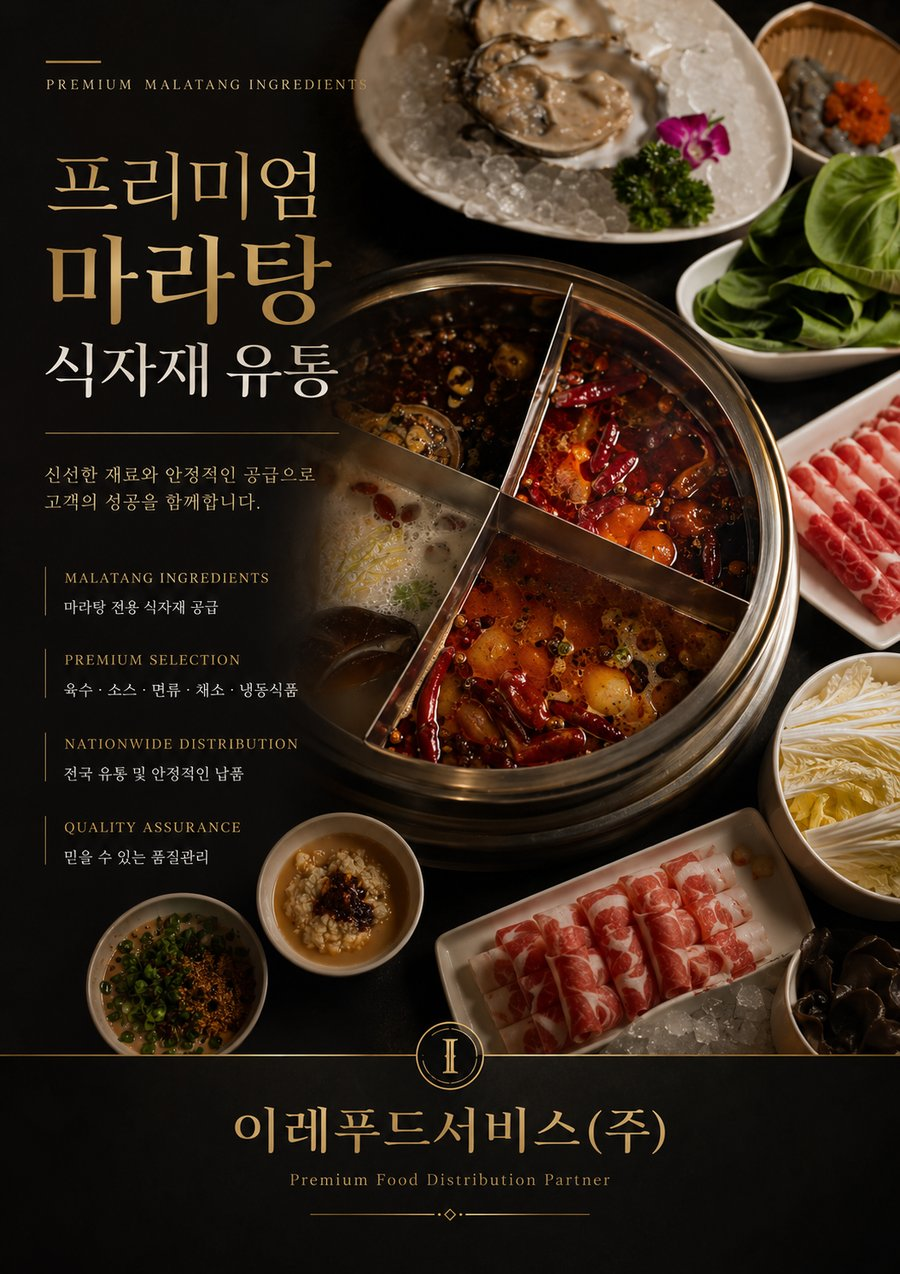
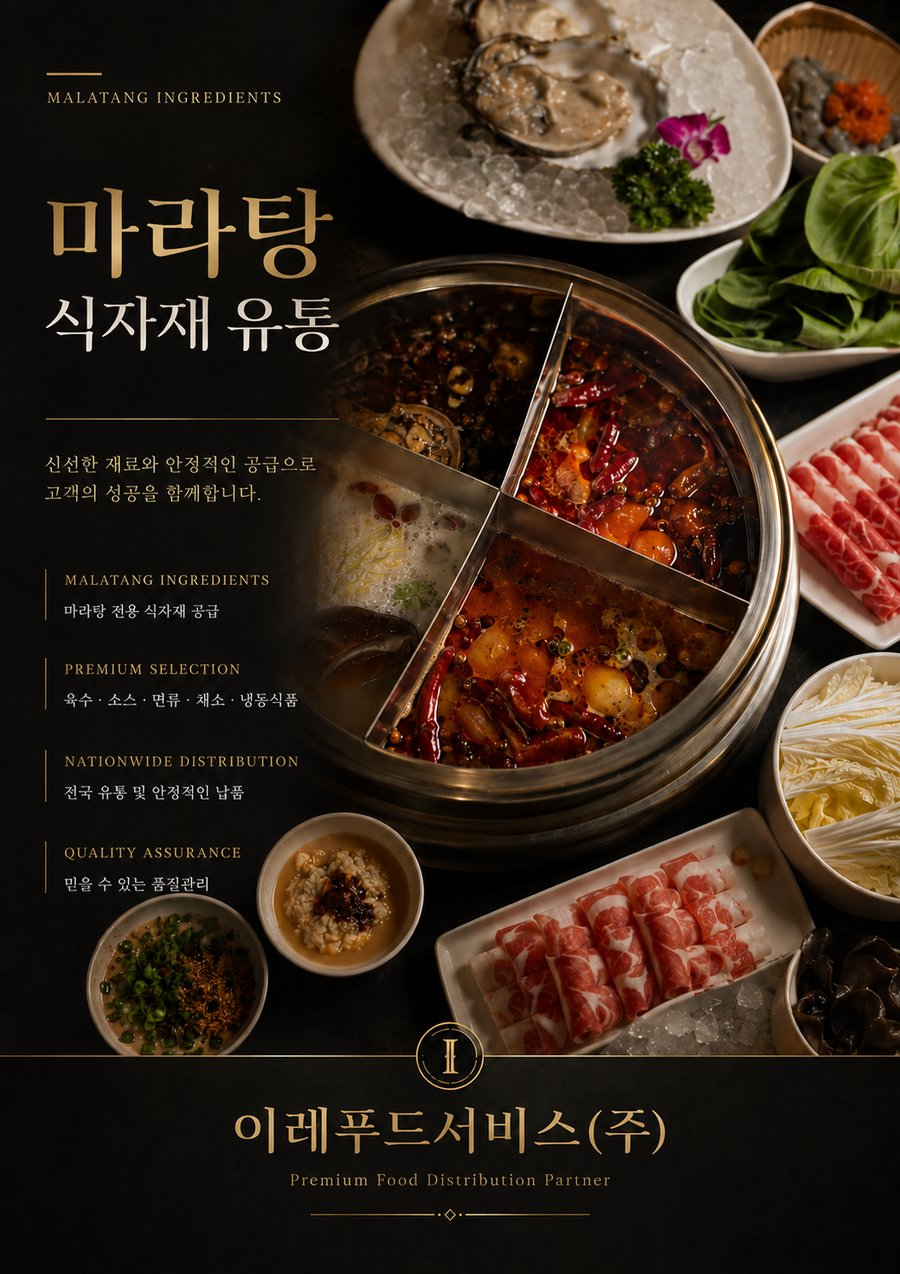
HOME 캠페인 포스터 이미지 교체 및 문구 동기화 ("프리미엄" 제거)

diff --git a/index.html b/index.html
@@ -75,9 +75,9 @@
   <div class="container" style="text-align:center;">
     <div class="section-header">
       <span class="eyebrow">CAMPAIGN</span>
-      <h2>프리미엄 마라탕 식자재 유통</h2>
+      <h2>마라탕 식자재 유통</h2>
     </div>
-    <img src="assets/images/poster-malatang.jpg" alt="이레푸드서비스 주식회사 프리미엄 마라탕 식자재 유통 포스터 — 육수·소스·면류·채소·냉동식품 전국 유통 및 안정적인 납품, 믿을 수 있는 품질관리" loading="lazy" style="max-width:420px; width:100%; margin:0 auto; box-shadow:0 24px 48px rgba(28,26,23,0.18);">
+    <img src="assets/images/poster-malatang.jpg" alt="이레푸드서비스 주식회사 마라탕 식자재 유통 포스터 — 육수·소스·면류·채소·냉동식품 전국 유통 및 안정적인 납품, 믿을 수 있는 품질관리" loading="lazy" style="max-width:420px; width:100%; margin:0 auto; box-shadow:0 24px 48px rgba(28,26,23,0.18);">
   </div>
 </section>
 
